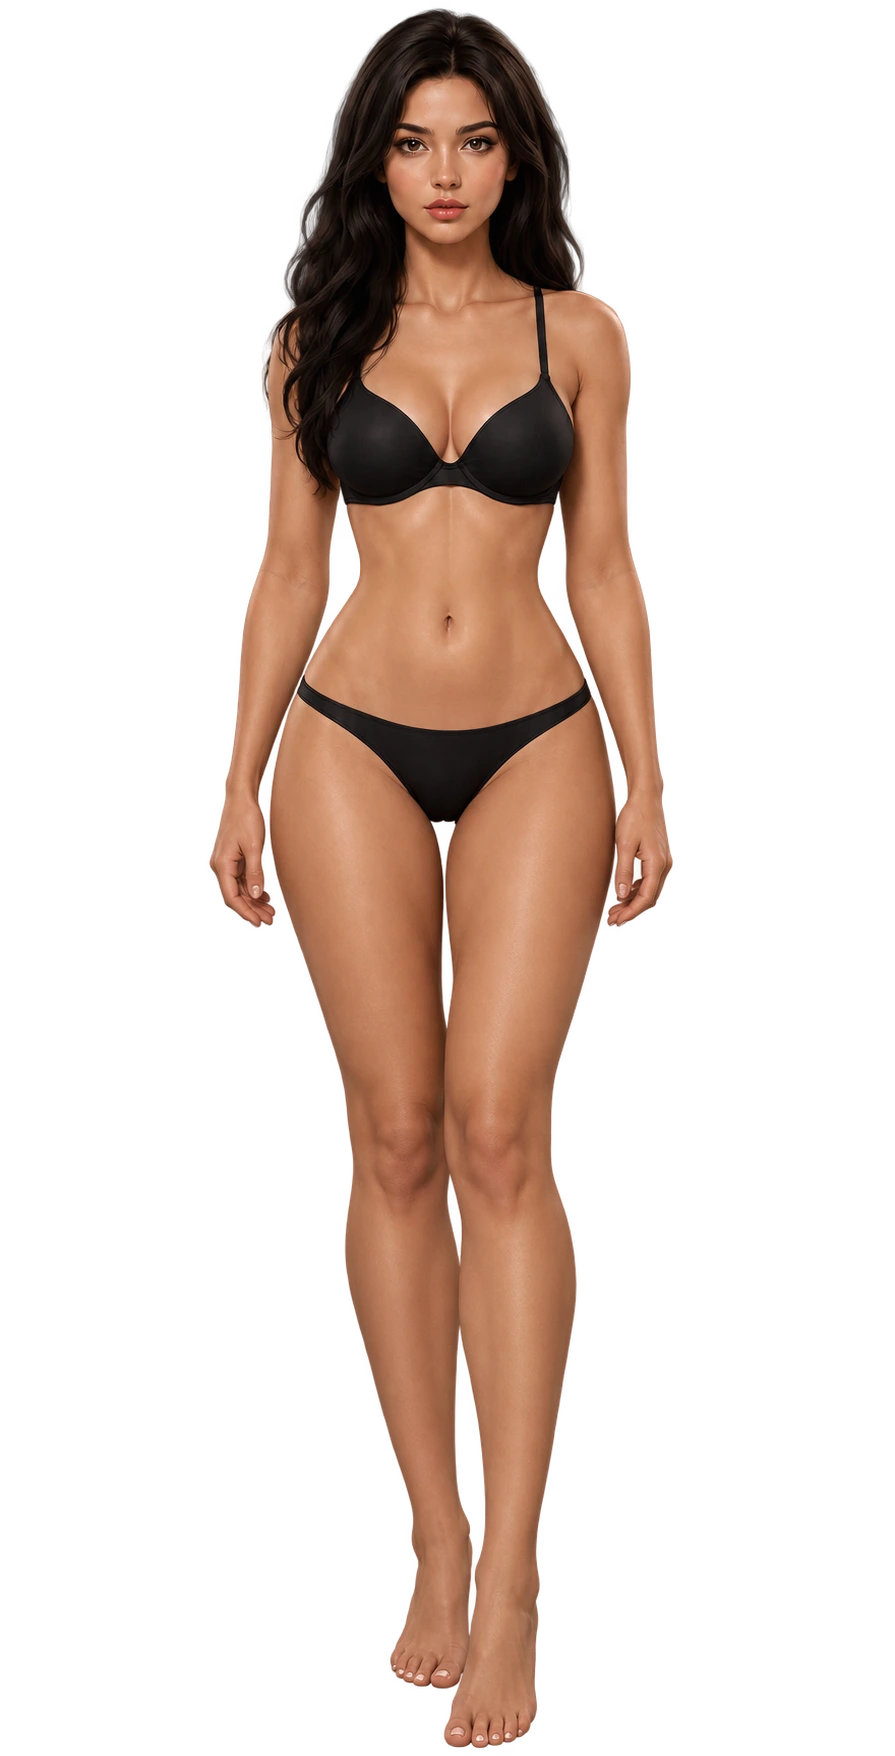
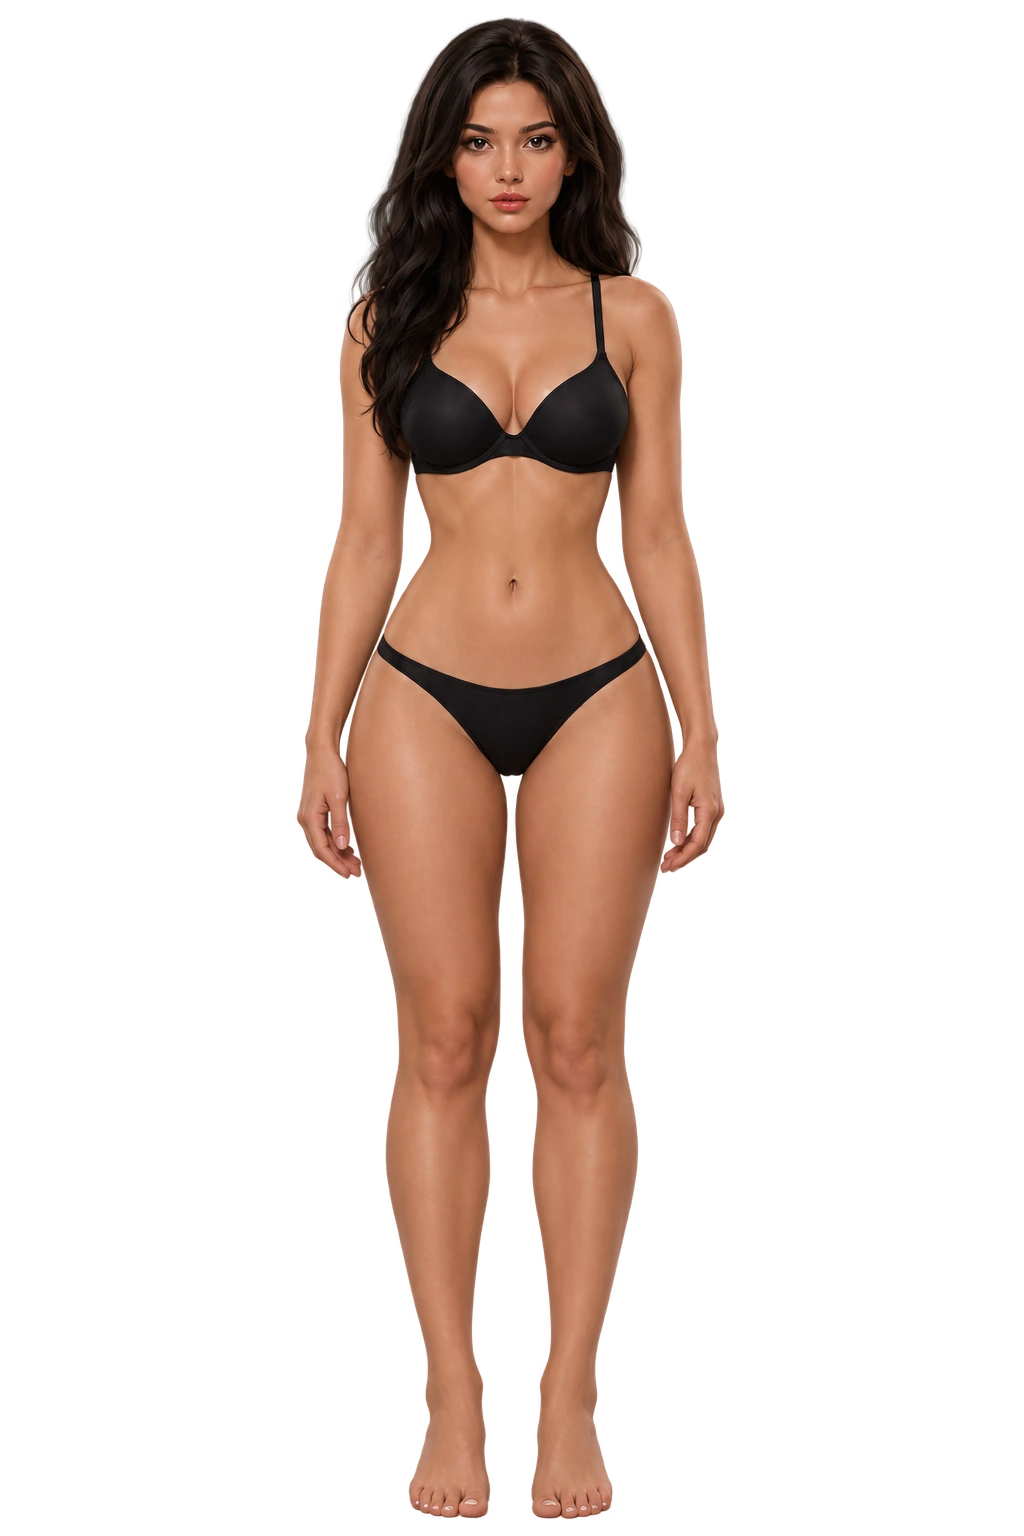
fix: painel de depuracao e botao posicionados fora do canvas no canto superior esquerdo da tela apenas no desktop

Changed region(s): [[0.2413, 0.0, 0.7542, 1.0]]

diff --git a/index.html b/index.html
@@ -168,48 +168,6 @@
                 pointer-events: none;
             }
 
-            /* Botão de Depuração Circular (Desktop) */
-            .window-btn-debug {
-                position: absolute;
-                top: -14px;
-                left: 32px;
-                width: 36px;
-                height: 36px;
-                border-radius: 50%;
-                background: #232029;
-                border: 2px solid rgba(255, 255, 255, 0.2);
-                color: var(--text-main);
-                display: flex;
-                align-items: center;
-                justify-content: center;
-                cursor: pointer;
-                z-index: 90;
-                box-shadow: 0 6px 18px rgba(0, 0, 0, 0.75);
-                transition: all 0.25s cubic-bezier(0.34, 1.56, 0.64, 1);
-            }
-
-            .window-btn-debug:hover {
-                background-color: #382c33;
-                border-color: var(--primary);
-                color: var(--primary);
-                transform: scale(1.12);
-                box-shadow: 0 8px 24px rgba(201, 107, 124, 0.45);
-            }
-
-            .window-btn-debug.active {
-                background-color: var(--primary);
-                border-color: #ffffff;
-                color: #ffffff;
-                box-shadow: 0 0 20px rgba(201, 107, 124, 0.8), 0 6px 18px rgba(0, 0, 0, 0.75);
-                transform: scale(1.08);
-            }
-
-            .window-btn-debug svg {
-                width: 16px;
-                height: 16px;
-                fill: currentColor;
-                pointer-events: none;
-            }
         }
 
         /* Celular Físico: Ocupa 100% da tela e altura do navegador */
@@ -234,44 +192,9 @@
 
             .window-btn-drag,
             .window-btn-minimize,
-            .floating-mini-phone {
+            .floating-mini-phone,
+            .desktop-debug-wrapper {
                 display: none !important;
-            }
-
-            /* Botão de Depuração Circular (Celular) */
-            .window-btn-debug {
-                position: absolute;
-                top: 14px;
-                right: 14px;
-                width: 34px;
-                height: 34px;
-                border-radius: 50%;
-                background: rgba(20, 18, 26, 0.85);
-                backdrop-filter: blur(10px);
-                -webkit-backdrop-filter: blur(10px);
-                border: 1.5px solid rgba(255, 255, 255, 0.2);
-                color: var(--text-main);
-                display: flex;
-                align-items: center;
-                justify-content: center;
-                cursor: pointer;
-                z-index: 95;
-                box-shadow: 0 4px 14px rgba(0, 0, 0, 0.7);
-                transition: all 0.25s cubic-bezier(0.34, 1.56, 0.64, 1);
-            }
-
-            .window-btn-debug.active {
-                background-color: var(--primary);
-                border-color: #ffffff;
-                color: #ffffff;
-                box-shadow: 0 0 16px rgba(201, 107, 124, 0.85);
-            }
-
-            .window-btn-debug svg {
-                width: 15px;
-                height: 15px;
-                fill: currentColor;
-                pointer-events: none;
             }
         }
 
@@ -468,20 +391,66 @@
             z-index: 3;
         }
 
-        /* HUD: Marcador de Zoom, Coordenadas, Sessões e PIN de Calibração */
-        .camera-hud-group {
-            position: absolute;
-            top: 14px;
-            left: 14px;
+        /* Painel de Depuração Flutuante Externo (Apenas Computador - Fora do Canvas) */
+        .desktop-debug-wrapper {
+            position: fixed;
+            top: 24px;
+            left: 24px;
             display: flex;
             flex-direction: column;
-            gap: 6px;
-            z-index: 25;
+            gap: 10px;
+            z-index: 999;
+            align-items: flex-start;
+        }
+
+        .desktop-debug-btn {
+            width: 38px;
+            height: 38px;
+            border-radius: 50%;
+            background: #232029;
+            border: 2px solid rgba(255, 255, 255, 0.2);
+            color: var(--text-main);
+            display: flex;
+            align-items: center;
+            justify-content: center;
+            cursor: pointer;
+            box-shadow: 0 6px 18px rgba(0, 0, 0, 0.75);
+            transition: all 0.25s cubic-bezier(0.34, 1.56, 0.64, 1);
+        }
+
+        .desktop-debug-btn:hover {
+            background-color: #382c33;
+            border-color: var(--primary);
+            color: var(--primary);
+            transform: scale(1.12);
+            box-shadow: 0 8px 24px rgba(201, 107, 124, 0.45);
+        }
+
+        .desktop-debug-btn.active {
+            background-color: var(--primary);
+            border-color: #ffffff;
+            color: #ffffff;
+            box-shadow: 0 0 20px rgba(201, 107, 124, 0.8), 0 6px 18px rgba(0, 0, 0, 0.75);
+            transform: scale(1.08);
+        }
+
+        .desktop-debug-btn svg {
+            width: 17px;
+            height: 17px;
+            fill: currentColor;
+            pointer-events: none;
+        }
+
+        /* HUD e Painel de Depuração Externo */
+        .camera-hud-group {
+            display: flex;
+            flex-direction: column;
+            gap: 8px;
             opacity: 0;
             pointer-events: none;
             transform: translateY(-8px);
             transition: opacity 0.25s ease, transform 0.25s ease;
-            max-width: calc(100% - 70px);
+            max-width: 280px;
         }
 
         .camera-hud-group.debug-visible {
@@ -993,6 +962,51 @@
 </head>
 <body>
 
+    <!-- Painel de Depuração Flutuante Externo (Apenas Computador - Fora do Canvas) -->
+    <div class="desktop-debug-wrapper" id="desktopDebugWrapper">
+        <button class="desktop-debug-btn" id="btnDebugMode" title="Alternar Painel de Depuração" aria-label="Depuração" onclick="toggleDebugMode()">
+            <svg viewBox="0 0 24 24"><path d="M20 8h-2.81c-.45-.78-1.07-1.45-1.82-1.96L17 4.41 15.59 3l-2.17 2.17C12.96 5.06 12.49 5 12 5c-.49 0-.96.06-1.41.17L8.41 3 7 4.41l1.62 1.63C7.88 6.55 7.26 7.22 6.81 8H4v2h2.09c-.05.33-.09.66-.09 1v1H4v2h2v1c0 .34.04.67.09 1H4v2h2.81c1.04 1.79 2.97 3 5.19 3s4.15-1.21 5.19-3H20v-2h-2.09c.05-.33.09-.66.09-1v-1h2v-2h-2v-1c0-.34-.04-.67-.09-1H20V8zm-6 8h-4v-2h4v2zm0-4h-4v-2h4v2z"/></svg>
+        </button>
+
+        <div class="camera-hud-group" id="cameraHudGroup">
+            <div class="camera-hud-badge" id="cameraHudBadge" title="Clique para copiar os valores de Zoom e Coordenadas">
+                <div class="hud-row">
+                    <svg viewBox="0 0 24 24"><path d="M15.5,14L20.5,19L19,20.5L14,15.5V14.71L13.73,14.43C12.59,15.41 11.11,16 9.5,16A6.5,6.5 0 0,1 3,9.5A6.5,6.5 0 0,1 9.5,3A6.5,6.5 0 0,1 16,9.5C16,11.11 15.41,12.59 14.43,13.73L14.71,14H15.5M9.5,14C12,14 14,12 14,9.5C14,7 12,5 9.5,5C7,5 5,7 5,9.5C5,12 7,14 9.5,14M12,10H10V12H9V10H7V9H9V7H10V9H12V10Z"/></svg>
+                    <span id="zoomLevelText">Zoom: 90%</span>
+                </div>
+                <div class="hud-sub" id="coordsText">X: 0 | Y: 0</div>
+                <div class="hud-sub" id="pinInfoText" style="color: var(--primary); font-weight: 600;">📍 PIN Foco: Y: 50.0% | X: 50.0%</div>
+            </div>
+
+            <!-- Ações Rápidas do PIN -->
+            <div class="pin-actions-row">
+                <button class="pin-action-btn" id="btnFocusPin" onclick="focusCameraOnPin()" title="Centralizar Câmera no PIN">
+                    🎯 Focar no PIN
+                </button>
+                <button class="pin-action-btn" id="btnCopyPreset" onclick="copyCurrentPinPreset()" title="Copiar Preset Responsivo do PIN">
+                    📋 Copiar Código
+                </button>
+            </div>
+
+            <!-- Botão para alternar entre degradê antigo e novo -->
+            <button class="bg-mode-btn" id="bgToggleBtn" title="Clique para alternar o estilo do fundo" onclick="toggleBackgroundMode()">
+                <svg viewBox="0 0 24 24"><path d="M12,2A10,10 0 0,0 2,12A10,10 0 0,0 12,22A10,10 0 0,0 22,12A10,10 0 0,0 12,2M12,4A8,8 0 0,1 20,12A8,8 0 0,1 12,20V4Z"/></svg>
+                <span id="bgModeLabel">Fundo: Câmera (Novo)</span>
+            </button>
+
+            <!-- Barra de Navegação Rápida entre Todas as Sessões -->
+            <div class="debug-sessions-bar" id="debugSessionsBar">
+                <span class="debug-session-tag active" data-tab="Identidade" onclick="testResponsiveSession('Identidade')">Identidade</span>
+                <span class="debug-session-tag" data-tab="Aparência" onclick="testResponsiveSession('Aparência')">Aparência</span>
+                <span class="debug-session-tag" data-tab="Busto" onclick="testResponsiveSession('Busto')">Busto</span>
+                <span class="debug-session-tag" data-tab="Pernas" onclick="testResponsiveSession('Pernas')">Pernas</span>
+                <span class="debug-session-tag" data-tab="Pés" onclick="testResponsiveSession('Pés')">Pés</span>
+                <span class="debug-session-tag" data-tab="Estilo" onclick="testResponsiveSession('Estilo')">Estilo</span>
+                <span class="debug-session-tag" data-tab="Gravação" onclick="testResponsiveSession('Gravação')">Gravação</span>
+            </div>
+        </div>
+    </div>
+
     <div class="phone-wrapper" id="phoneWrapper">
         <div class="phone-movable-frame" id="phoneMovableFrame">
             
@@ -1006,55 +1020,10 @@
                 <svg viewBox="0 0 24 24"><path d="M19,13H5V11H19V13Z"/></svg>
             </button>
 
-            <!-- Botão de Depuração Circular -->
-            <button class="window-btn-debug" id="btnDebugMode" title="Alternar Modo de Depuração (HUD, PIN de Calibração e Sessões)" aria-label="Depuração" onclick="toggleDebugMode()">
-                <svg viewBox="0 0 24 24"><path d="M20 8h-2.81c-.45-.78-1.07-1.45-1.82-1.96L17 4.41 15.59 3l-2.17 2.17C12.96 5.06 12.49 5 12 5c-.49 0-.96.06-1.41.17L8.41 3 7 4.41l1.62 1.63C7.88 6.55 7.26 7.22 6.81 8H4v2h2.09c-.05.33-.09.66-.09 1v1H4v2h2v1c0 .34.04.67.09 1H4v2h2.81c1.04 1.79 2.97 3 5.19 3s4.15-1.21 5.19-3H20v-2h-2.09c.05-.33.09-.66.09-1v-1h2v-2h-2v-1c0-.34-.04-.67-.09-1H20V8zm-6 8h-4v-2h4v2zm0-4h-4v-2h4v2z"/></svg>
-            </button>
-
             <div class="app-container" id="appContainer">
                 
                 <!-- Viewport / Canvas Interativo da Modelo -->
                 <div class="viewport" id="viewportCanvas">
-                    
-                    <!-- HUD: Marcador de Zoom, Coordenadas, Sessões e PIN de Calibração -->
-                    <div class="camera-hud-group" id="cameraHudGroup">
-                        <div class="camera-hud-badge" id="cameraHudBadge" title="Clique para copiar os valores de Zoom e Coordenadas">
-                            <div class="hud-row">
-                                <svg viewBox="0 0 24 24"><path d="M15.5,14L20.5,19L19,20.5L14,15.5V14.71L13.73,14.43C12.59,15.41 11.11,16 9.5,16A6.5,6.5 0 0,1 3,9.5A6.5,6.5 0 0,1 9.5,3A6.5,6.5 0 0,1 16,9.5C16,11.11 15.41,12.59 14.43,13.73L14.71,14H15.5M9.5,14C12,14 14,12 14,9.5C14,7 12,5 9.5,5C7,5 5,7 5,9.5C5,12 7,14 9.5,14M12,10H10V12H9V10H7V9H9V7H10V9H12V10Z"/></svg>
-                                <span id="zoomLevelText">Zoom: 90%</span>
-                            </div>
-                            <div class="hud-sub" id="coordsText">X: 0 | Y: 0</div>
-                            <div class="hud-sub" id="pinInfoText" style="color: var(--primary); font-weight: 600;">📍 PIN Foco: Y: 50.0% | X: 50.0%</div>
-                        </div>
-
-                        <!-- Ações Rápidas do PIN -->
-                        <div class="pin-actions-row">
-                            <button class="pin-action-btn" id="btnFocusPin" onclick="focusCameraOnPin()" title="Centralizar Câmera no PIN">
-                                🎯 Focar no PIN
-                            </button>
-                            <button class="pin-action-btn" id="btnCopyPreset" onclick="copyCurrentPinPreset()" title="Copiar Preset Responsivo do PIN">
-                                📋 Copiar Código
-                            </button>
-                        </div>
-
-                        <!-- Botão para alternar entre degradê antigo e novo -->
-                        <button class="bg-mode-btn" id="bgToggleBtn" title="Clique para alternar o estilo do fundo" onclick="toggleBackgroundMode()">
-                            <svg viewBox="0 0 24 24"><path d="M12,2A10,10 0 0,0 2,12A10,10 0 0,0 12,22A10,10 0 0,0 22,12A10,10 0 0,0 12,2M12,4A8,8 0 0,1 20,12A8,8 0 0,1 12,20V4Z"/></svg>
-                            <span id="bgModeLabel">Fundo: Câmera (Novo)</span>
-                        </button>
-
-                        <!-- Barra de Navegação Rápida entre Todas as Sessões -->
-                        <div class="debug-sessions-bar" id="debugSessionsBar">
-                            <span class="debug-session-tag active" data-tab="Identidade" onclick="testResponsiveSession('Identidade')">Identidade</span>
-                            <span class="debug-session-tag" data-tab="Aparência" onclick="testResponsiveSession('Aparência')">Aparência</span>
-                            <span class="debug-session-tag" data-tab="Busto" onclick="testResponsiveSession('Busto')">Busto</span>
-                            <span class="debug-session-tag" data-tab="Pernas" onclick="testResponsiveSession('Pernas')">Pernas</span>
-                            <span class="debug-session-tag" data-tab="Pés" onclick="testResponsiveSession('Pés')">Pés</span>
-                            <span class="debug-session-tag" data-tab="Estilo" onclick="testResponsiveSession('Estilo')">Estilo</span>
-                            <span class="debug-session-tag" data-tab="Gravação" onclick="testResponsiveSession('Gravação')">Gravação</span>
-                        </div>
-                    </div>
-
                     <div class="avatar-container" id="avatarContainer">
                         <div class="infinite-gradient-backdrop" id="infiniteBackdrop"></div>
                         <img src="avatar.webp" alt="Base Avatar" class="avatar-layer avatar-base" id="layerBase">
